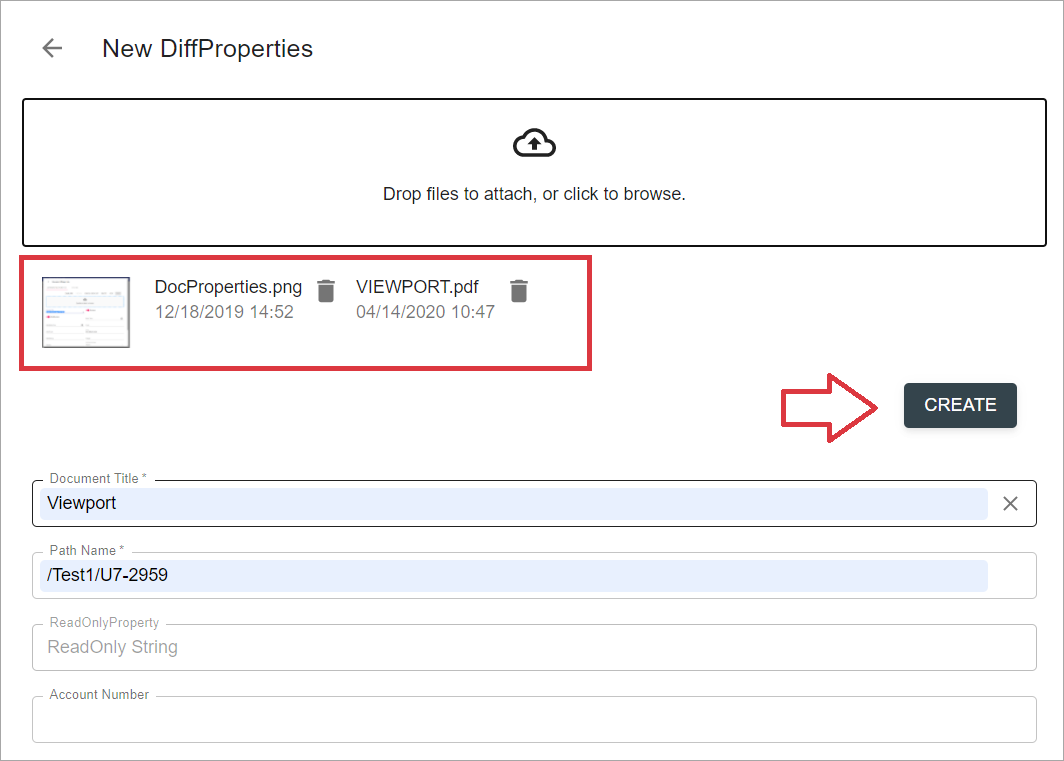
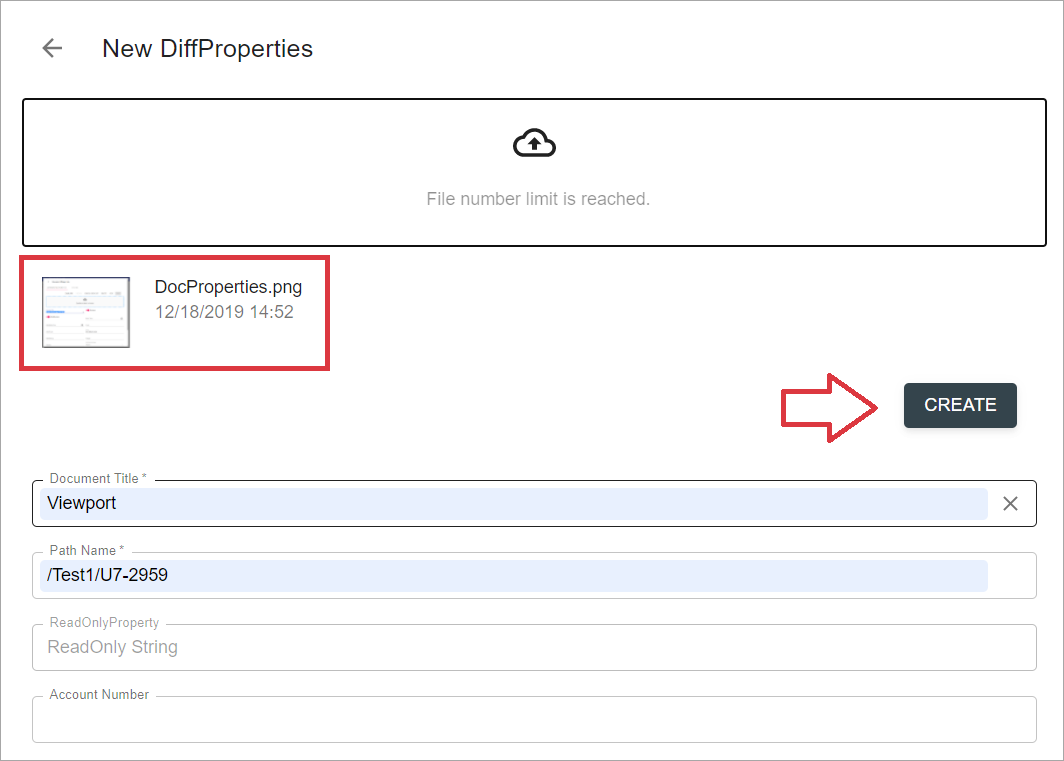
U7-3607: Changes 'files' to 'file" in Create Document action for React;

Changed region(s): [[0.2791, 0.3325, 0.5583, 0.5138], [0.3412, 0.2418, 0.6513, 0.272]]

diff --git a/_docs/unity-react/features/document-management/create-document.md b/_docs/unity-react/features/document-management/create-document.md
@@ -5,35 +5,35 @@ category: Unity 7
 ---
 # Description
 
-`Create` document action allows to upload a file (set of files) into a particular data provider with ability to specify 
-document properties. This type of action can be added on a grid toolbar and will be rendered as a separate button 
+`Create` document action allows to upload a file (set of files) into a particular data provider with ability to specify
+document properties. This type of action can be added on a grid toolbar and will be rendered as a separate button
 (if only one create action is bound to the grid) or a dropdown (in case grid contains many create actions).
 
 *content to be added*
 
-# How to Create a Document(-s)
+# How to Create a Document
 
-- Click `Create` action on a grid toolbar and select particular type of document to be created (if dropdown is 
+- Click `Create` action on a grid toolbar and select particular type of document to be created (if dropdown is
 available).
 
-- Drop files into drop zone or click it to select files for upload:
+- Drop a file into drop zone or click it to select a file for upload:
 
-    ![Create document form before files are selected](create-document/images/create-document-empty-form.png)
+    ![Create document form before file are selected](create-document/images/create-document-empty-form.png)
 
-- Selected files info will appear below the drop zone area. Fill in properties and click `Create` button:
+- Selected file info will appear below the drop zone area. Fill in properties and click `Create` button:
 
     ![Create document form with filled properties](create-document/images/create-document-form.png)
-    
+
 - In case of failure form remains opened, toast with error message appears:
 
     ![Create action failure](create-document/images/create-document-error.png)
-    
+
 - If no errors occurred during action execution, user will see the message, that action completed successfully:
 
     ![Successfully completed create action](create-document/images/create-document-success.png)
-    
+
     Successful action execution will also lead to grid refresh.
-    
+
 # Configuration
 
 [Create document action configuration](../../configuration/actions/create-document.md)
